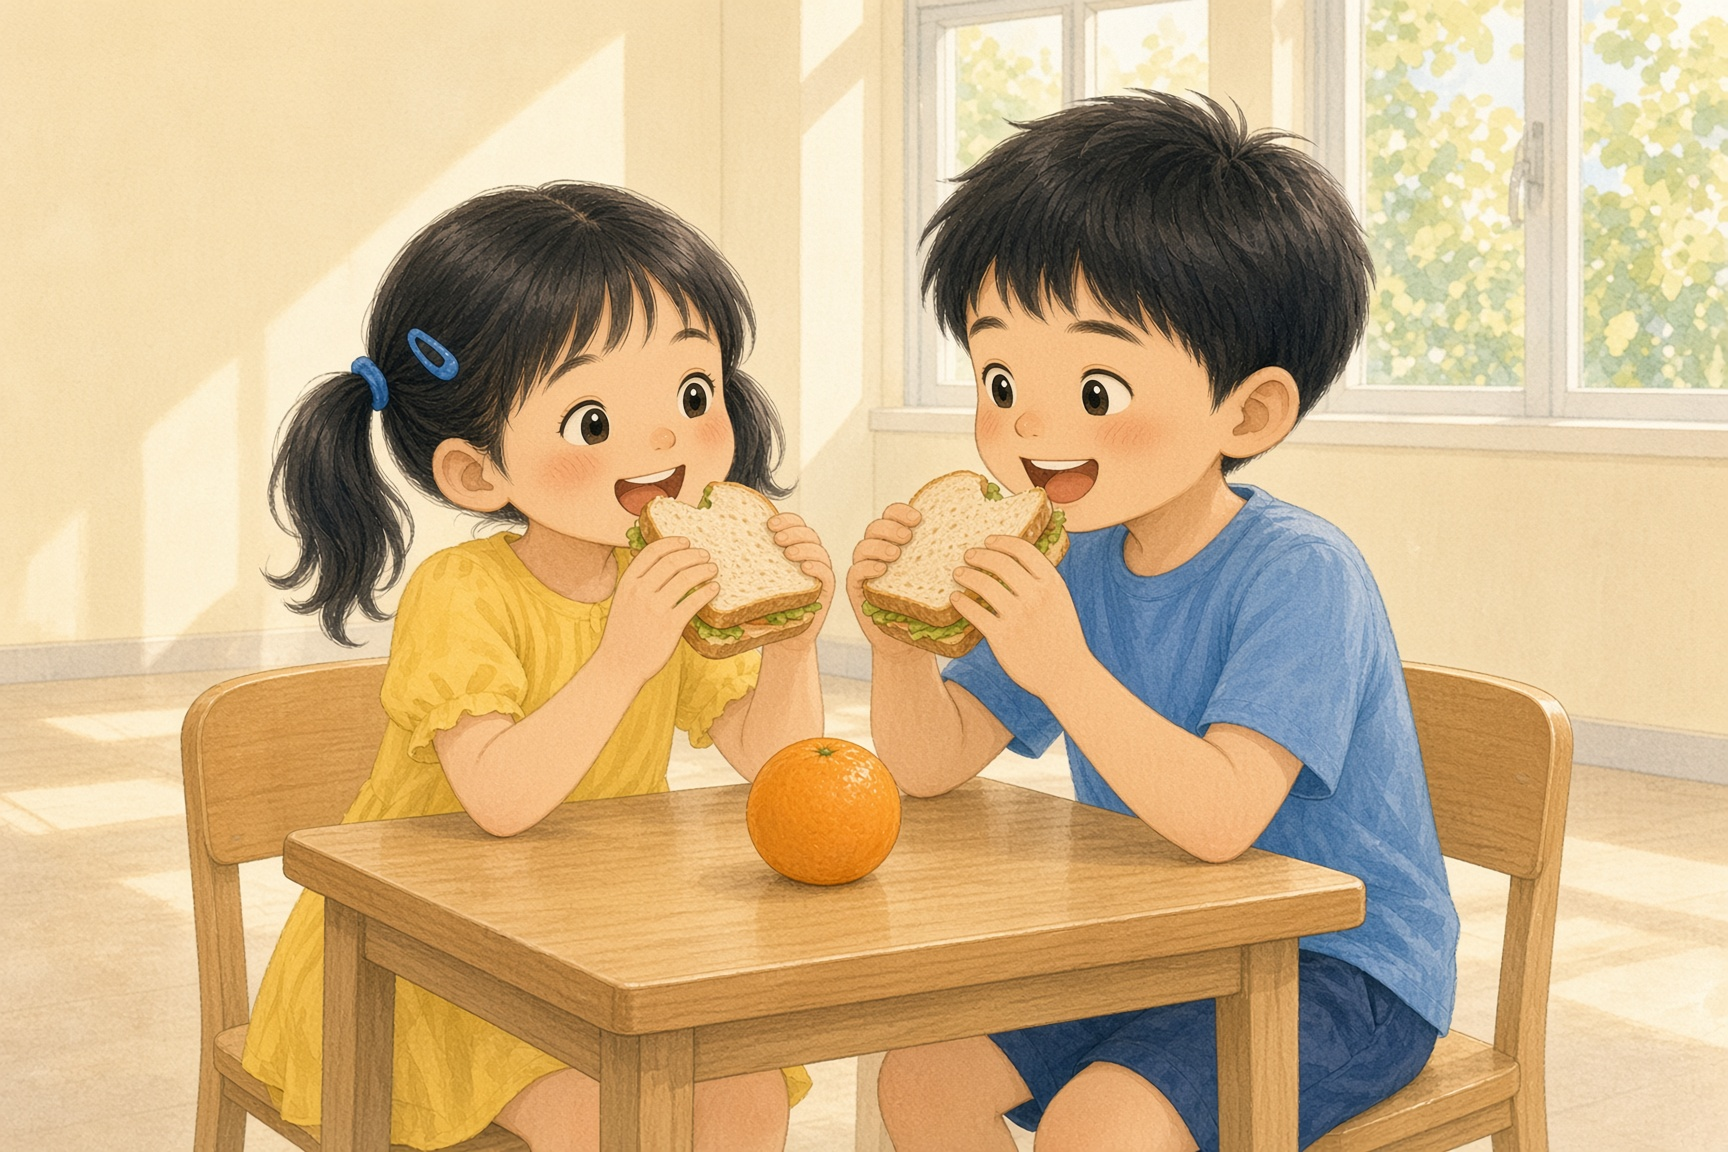
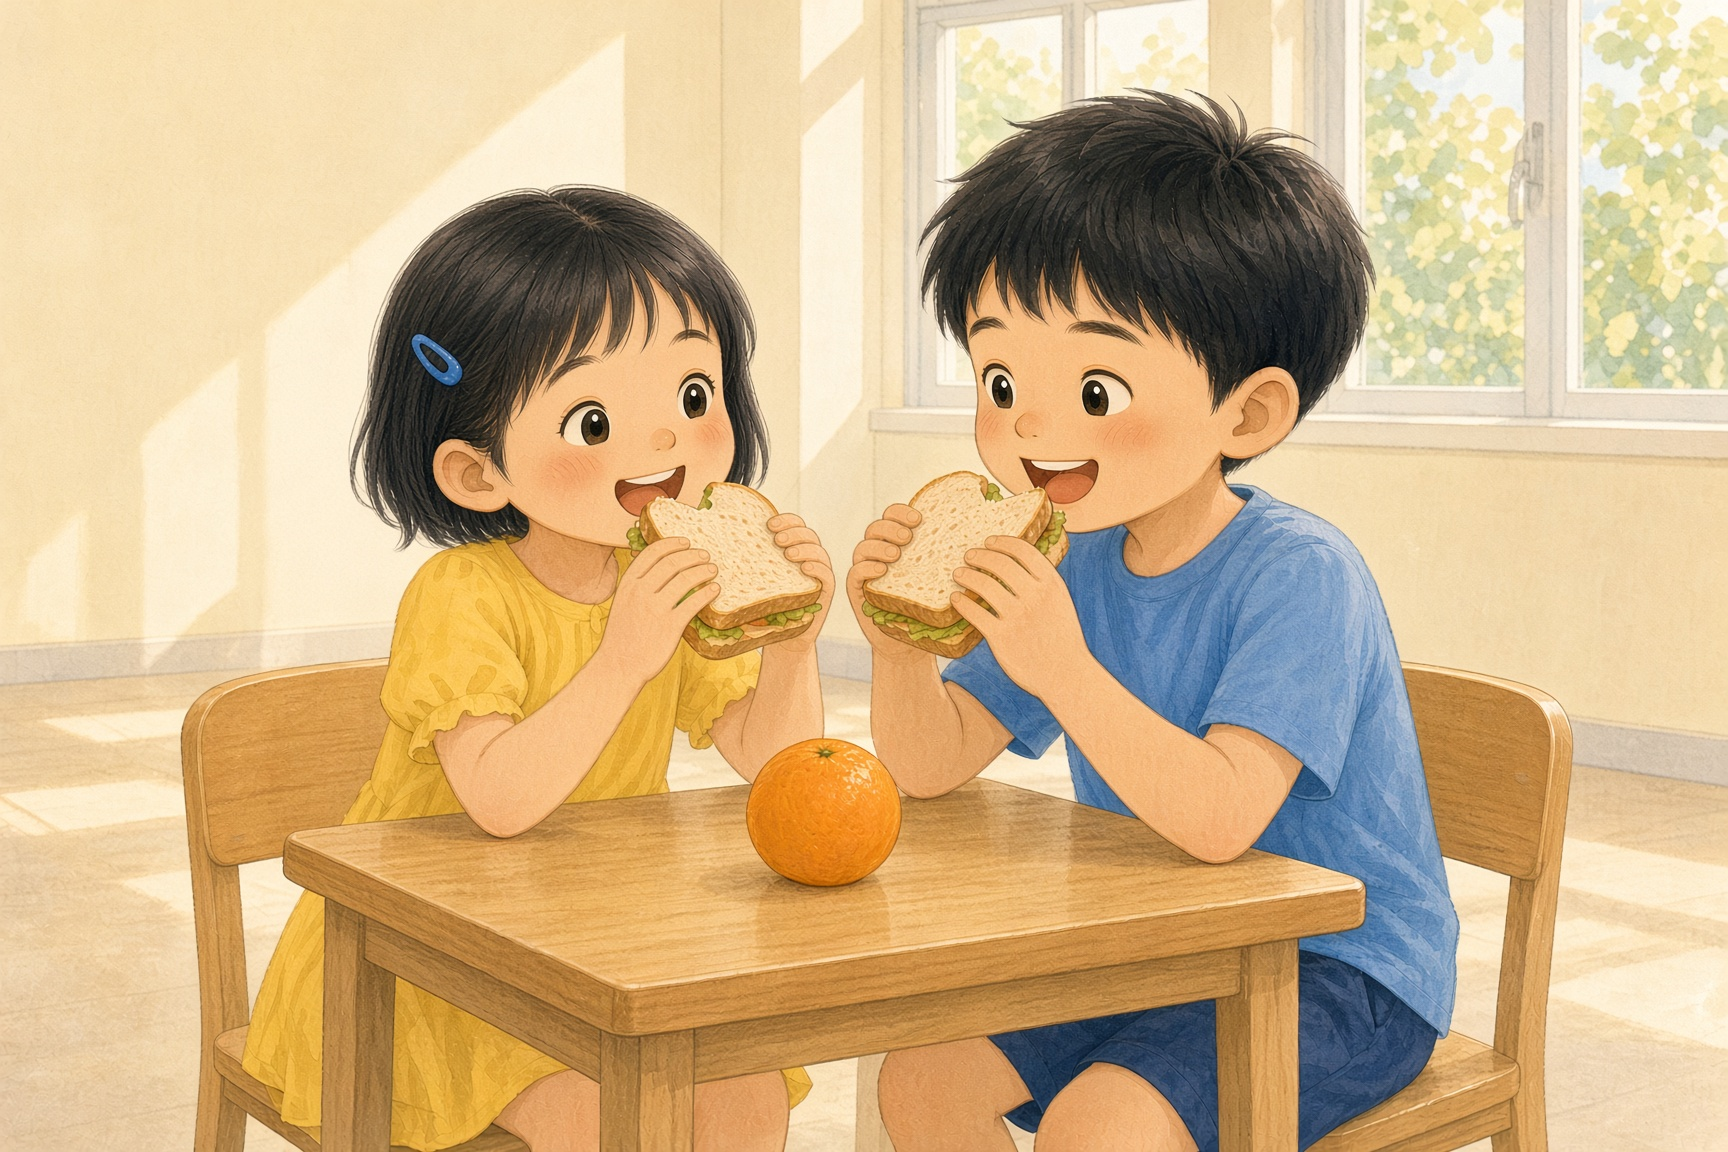
Unify Anan's hairstyle in the lunch story

diff --git a/stories.js b/stories.js
@@ -322,7 +322,7 @@ window.STORIES = [
       {
         caption: "安安看見同學難過，看了看自己的食物。",
         hint: "安安發現了什麼？她的心情怎樣？",
-        image: "comics/lunch/2.jpg?v=3",
+        image: "comics/lunch/2.jpg?v=4",
       },
       {
         caption: "安安把三文治分開，分給同學。",
@@ -332,7 +332,7 @@ window.STORIES = [
       {
         caption: "兩人一起吃飯，都笑了。",
         hint: "結果怎樣？分享之後有什麼感覺？",
-        image: "comics/lunch/4.jpg?v=3",
+        image: "comics/lunch/4.jpg?v=4",
       },
     ],
     starters: [
